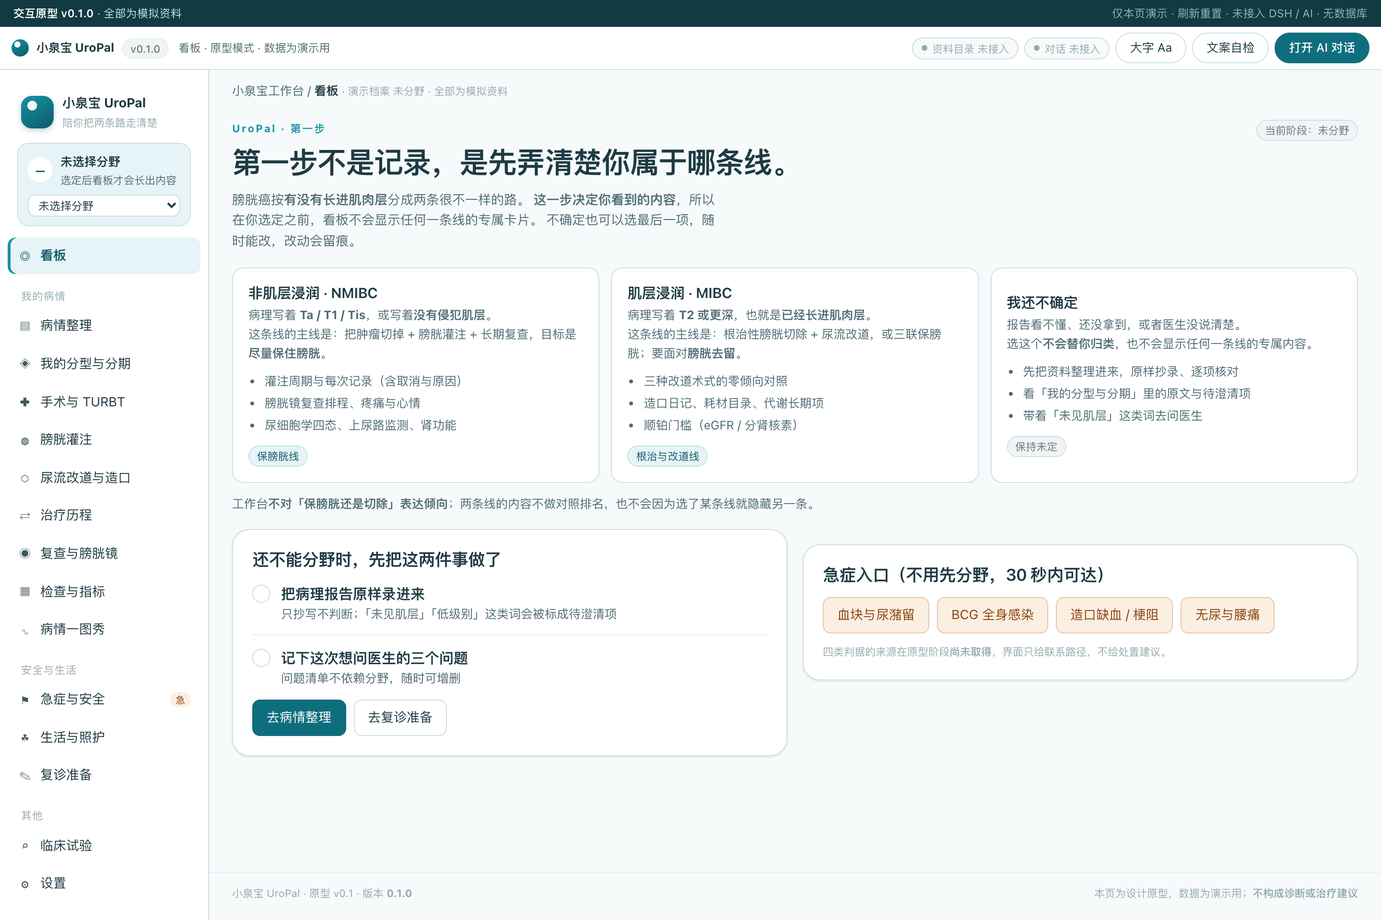
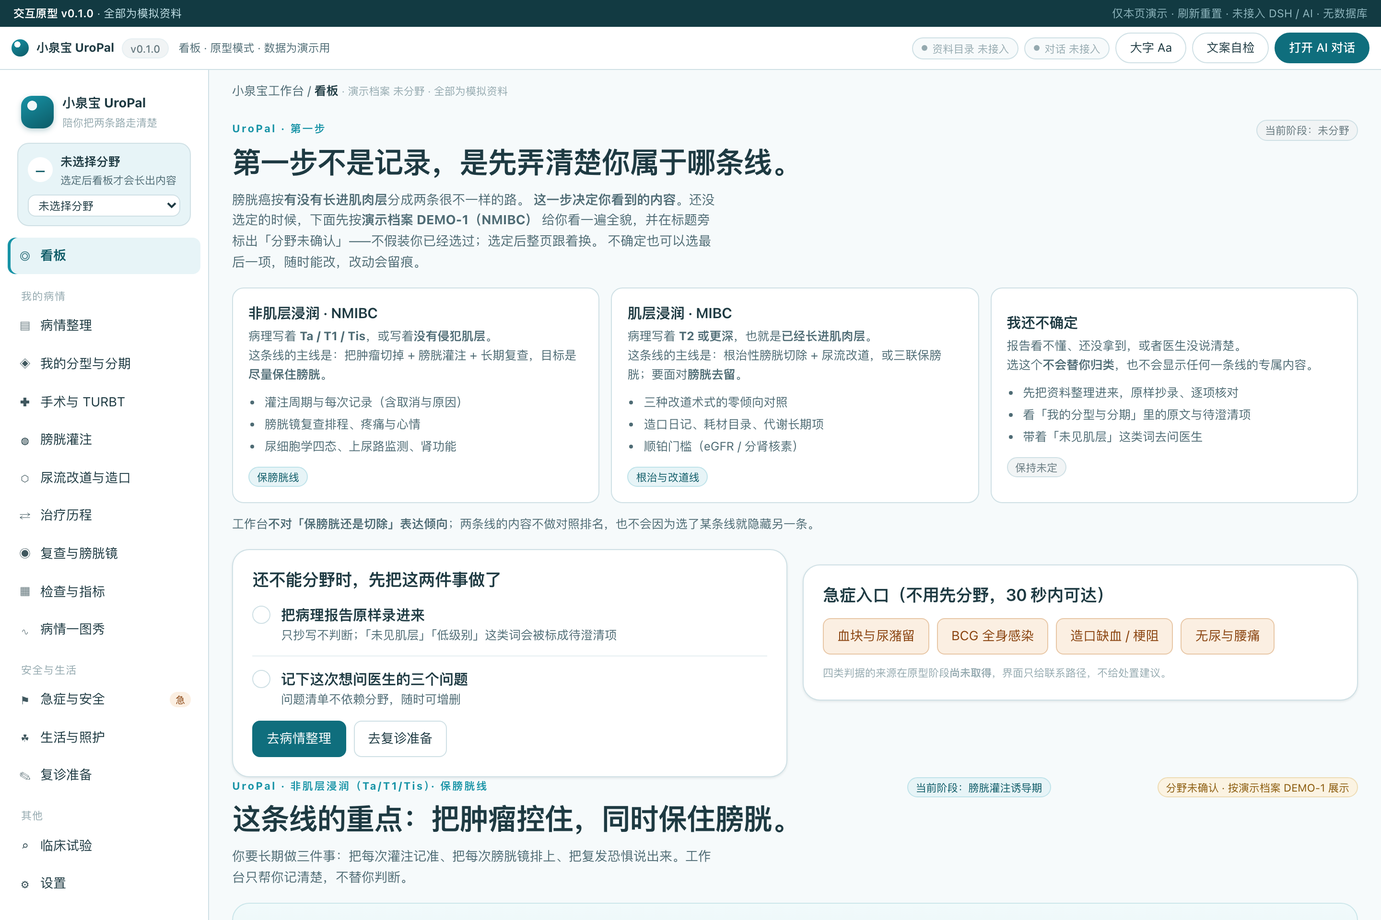
原型 v0.1：首页不再空着 + 指标页默认落卡片 + 真正实现 C11 可比组
用户反馈两条：
1) 「指标卡片没有实现 3d 反转效果」——复查发现翻转本身是好的，问题是默认页签
   落在「指标总览」裸表上，3D 卡藏在第二个页签后面，打开这页看不到。默认页签改为
   「分类指标卡」。
2) 「数据模拟不全，首页没有任何内容，这不真实」——原 DESIGN-08 实现成未选线时整页
   只有一张闸门卡。现闸门降级成第一张卡，下面按演示档案 DEMO-1 渲染全貌并明标
   「分野未确认」。

顺带：
- 指标序列 3-4 点扩到 6-8 点，跨 2025-06 → 2026-10，共 46 条记录 5 个分组
- 真正实现 docs/16 的 C11 可比组（此前只在注释里声明）：肌酐换医院（酶法→苦味酸法）
  后拆成 2 组，不跨组连线；卡片正面与图例都写明是哪几组、各几次
- 治疗事件泳道行距 13→17px：13px 小于 11px 标签行高(≈15.4px)，长窗口把三个事件挤到
  70px 内时相邻两行必然相交（此前窗口短、只用到两行，属于侥幸通过）
- 自检 124 → 130 条全通过

diff --git a/prototypes/v0.1/app.js b/prototypes/v0.1/app.js
@@ -238,10 +238,13 @@ function card(title, body, extra = '') {
 
 /* ================= 1. 看板 ================= */
 function pageDashboard() {
-  // 未分野 / 保持未定：都不显示任何一条线的专属卡片
-  if (!STATE.line || STATE.line === 'undetermined') return gateHTML();
+  /* 未分野时不再把整页让给闸门 —— 那样首页看着是空的，不像一个能用的产品。
+     改为：闸门降级成「第一张卡」，下面照常按演示档案 DEMO-1（NMIBC）渲染，
+     并在 hero 上明写「分野未确认」——不假装用户已经选过。 */
+  const confirmed = STATE.line === 'nmibc' || STATE.line === 'mibc';
+  const nmibc = STATE.line !== 'mibc';
+  const gateFirst = confirmed ? '' : gateHTML();
 
-  const nmibc = STATE.line === 'nmibc';
   const lineName = nmibc ? '非肌层浸润（Ta/T1/Tis）· 保膀胱线' : '肌层浸润（T2+）· 根治与改道线';
   const stage = nmibc ? '膀胱灌注诱导期' : '术后待定改道术式';
 
@@ -256,6 +259,7 @@ function pageDashboard() {
             : '你要面对两个不可逆的选择：膀胱切不切、改道走哪一种。这里把三种术式并排摆出来，不给倾向。'}</p>
         </div>
         <span class="chip chip-brand">当前阶段：${esc(stage)}</span>
+        ${confirmed ? '' : '<span class="chip chip-warn">分野未确认 · 按演示档案 DEMO-1 展示</span>'}
       </div>
     </div>`;
 
@@ -319,7 +323,7 @@ function pageDashboard() {
       <div class="legend" data-legend></div>
     </div>`;
 
-  return hero + strip
+  return gateFirst + hero + strip
     + `<div class="entry-grid">` + entries.map((e) => `
         <button type="button" class="entry-card" data-goto="${e.go}">
           <span class="entry-ico" aria-hidden="true">${e.ico}</span>
@@ -372,7 +376,8 @@ function gateHTML() {
         <div class="hero-eyebrow">UroPal · 第一步</div>
         <h1 class="hero-title">${undet ? '先保持未定。这一步不着急。' : '第一步不是记录，是先弄清楚你属于哪条线。'}</h1>
         <p class="hero-sub">膀胱癌按<b>有没有长进肌肉层</b>分成两条很不一样的路。
-          <b>这一步决定你看到的内容</b>，所以在你选定之前，看板不会显示任何一条线的专属卡片。
+          <b>这一步决定你看到的内容</b>。还没选定的时候，下面先按<b>演示档案 DEMO-1（NMIBC）</b>
+          给你看一遍全貌，并在标题旁标出「分野未确认」——不假装你已经选过；选定后整页跟着换。
           不确定也可以选最后一项，随时能改，改动会留痕。</p>
       </div>
       <span class="chip chip-neutral">当前阶段：${undet ? '分野未定' : '未分野'}</span>
@@ -790,7 +795,20 @@ function pageFollowup(tab) {
 function pageMetrics(tab) {
   let body;
   if (tab === '分类指标卡') {
-    body = `<div class="metric-grid" data-metric-grid>${METRICS.map((m, i) => metricCardHTML(m, i)).join('')}</div>
+    const cats = [...new Set(METRICS.map((m) => m.cat))];
+    const total = METRICS.reduce((a, m) => a + m.points.length, 0);
+    const lastD = METRICS.flatMap((m) => m.points.map((p) => p.d)).sort().pop();
+    const split = METRICS.filter((m) => CHART.groupsOf && CHART.groupsOf(m).length > 1);
+    body = `<div class="strip" style="margin-bottom:16px">
+        <div class="strip-main">
+          <div class="strip-head">${METRICS.length} 项指标 · ${cats.length} 个分组 · ${total} 条记录 · 最近更新 ${esc(lastD)}</div>
+          <div class="strip-note">分组顺序与「病情一图秀」同一来源，两页一致。
+            ${split.length ? `其中 <b>${split.map((m) => esc(m.name)).join('、')}</b> 的机构或方法中途变过，已拆成不同<b>可比组</b>，不跨组连线。`
+              : '全部指标机构与方法一致。'}</div>
+        </div>
+        <div class="strip-actions"><button type="button" class="btn" data-goto="chart">打开一图秀</button></div>
+      </div>
+      <div class="metric-grid" data-metric-grid>${METRICS.map((m, i) => metricCardHTML(m, i)).join('')}</div>
       <p class="src" style="margin-top:12px">卡背面是<b>固定高度 3D 翻转</b>，不是向下展开。
         点卡片或按回车/空格翻转；≥700px 两列，窄屏一列，不做三列以上。</p>`;
   } else if (tab === '电解质与 B12') {
@@ -811,7 +829,11 @@ function pageMetrics(tab) {
         <dt>顺铂门槛</dt><dd>${esc(RENAL.threshold.text)} ${src(RENAL.threshold.source)}</dd>
       </div>`);
   } else {
+    const cats2 = [...new Set(METRICS.map((m) => m.cat))];
     body = card('指标总览（与一图秀同源）', `
+      <div class="btn-row" style="margin-bottom:12px">
+        ${cats2.map((c) => `<span class="chip chip-cat">${esc(c)} · ${METRICS.filter((m) => m.cat === c).length} 项</span>`).join('')}
+      </div>
       <table class="tbl"><thead><tr><th>分组</th><th>指标</th><th class="num">最近值</th><th>单位</th><th>日期</th><th>分级</th></tr></thead><tbody>
         ${METRICS.map((m) => {
           const last = m.points[m.points.length - 1];
@@ -865,6 +887,15 @@ function rulerHTML(m) {
   </div>`;
 }
 
+/* 可比组：机构或方法变了就不该连成一条线。多于一组时明写出来，少一组就不啰嗦。 */
+function groupsHTML(m) {
+  if (!CHART.groupsOf) return '';
+  const gs = CHART.groupsOf(m);
+  if (gs.length < 2) return '';
+  return `<span class="mc-groups">可比组 ${gs.length} 个（不跨组连线）：`
+    + gs.map((g) => `${esc(g.label)} ${g.n} 次`).join(' / ') + `</span>`;
+}
+
 function metricCardHTML(m, i) {
   const last = m.points[m.points.length - 1];
   const prev = m.points[m.points.length - 2];
@@ -886,6 +917,7 @@ function metricCardHTML(m, i) {
         <div class="mc-meta">
           <span>共 ${m.points.length} 次记录 · 最近 ${esc(last.d)}</span>
           <span>来源：${esc(m.src)}${m.lab ? ' · ' + esc(m.lab) : ''}</span>
+          ${groupsHTML(m)}
           <span>${m.refLow != null && m.refHigh != null ? `参考范围 ${CHART.fmt(m.refLow)} ~ ${CHART.fmt(m.refHigh)} ${esc(m.unit)}`
             : m.refLow != null ? `参考范围 ≥ ${CHART.fmt(m.refLow)} ${esc(m.unit)}（报告未给上限）`
             : m.refHigh != null ? `参考范围 ≤ ${CHART.fmt(m.refHigh)} ${esc(m.unit)}（报告未给下限）`
@@ -898,7 +930,7 @@ function metricCardHTML(m, i) {
         <div class="mb-chart">${CHART.sparkline(m)}</div>
         <div class="mc-meta">
           <span>全期范围 ${CHART.fmt(m.min ?? Math.min(...m.points.map(p => p.v)))} ～ ${CHART.fmt(m.max ?? Math.max(...m.points.map(p => p.v)))} ${esc(m.unit)}</span>
-          <span>${m.lab ? `机构 ${esc(m.lab)}` : '自测'} · 方法 ${esc(m.method || '—')}</span>
+          <span>${groupsHTML(m) || (m.lab ? `机构 ${esc(m.lab)} · 方法 ${esc(m.method || '—')}` : '自测')}</span>
           ${m.ctcae ? `<span>${esc(m.ctcae.range || '')}｜来源：CTCAE v5.0</span>` : '<span>未启用分级对照</span>'}
         </div>
         <span class="mc-flip-hint">翻回正面 ⟳</span>

diff --git a/prototypes/v0.1/data.js b/prototypes/v0.1/data.js
@@ -17,7 +17,7 @@ const NAV = [
   { id: 'diversion',    text: '尿流改道与造口',  ico: '⬡', tabs: ['三术式对照', '回肠造口', '原位新膀胱', '输尿管皮肤造口', '造口日记', '耗材目录'] },
   { id: 'treatment',    text: '治疗历程',        ico: '⇄', tabs: ['治疗线', '用药与周期', '疗效评估', '肾功能门槛'] },
   { id: 'followup',     text: '复查与膀胱镜',    ico: '◉', tabs: ['复查排程', '本次记录', '方式与麻醉', '疼痛与心情', '尿细胞学', '上尿路监测'] },
-  { id: 'metrics',      text: '检查与指标',      ico: '▦', tabs: ['指标总览', '分类指标卡', '电解质与 B12', '肾功能'] },
+  { id: 'metrics',      text: '检查与指标',      ico: '▦', tabs: ['分类指标卡', '指标总览', '电解质与 B12', '肾功能'] },
   { id: 'chart',        text: '病情一图秀',      ico: '∿' },
   { id: 'urgent',       text: '急症与安全',      ico: '⚑' },
   { id: 'life',         text: '生活与照护',      ico: '☘', tabs: ['饮水与饮食', '造口与社交', '性功能与亲密', '工作与出行', '照护者交接'] },
@@ -122,12 +122,16 @@ const RENAL = {
 };
 
 /* ---------- 演示：指标（一图秀 + 3D 卡共用同一目录） ---------- */
+/* 指标序列。点级可带 lab/method —— 机构或方法一变就拆「可比组」，不跨组连线（C11）。
+   演示档案跨越 2025-06 → 2026-10；肌酐在 2026-10-08 换了医院（酶法 → 苦味酸法），
+   这两点与之前不同组，不能直接连成一条线。 */
 const METRICS = [
   {
     code: 'egfr', name: 'eGFR', cat: '肾功能', unit: 'mL/min/1.73m²', color: 'var(--d-renal)',
     points: [
-      { d: '2026-03-10', v: 92 }, { d: '2026-06-12', v: 88 },
-      { d: '2026-09-18', v: 74 }, { d: '2026-10-22', v: 66 },
+      { d: '2025-06-20', v: 95 }, { d: '2025-12-12', v: 93 }, { d: '2026-03-10', v: 92 },
+      { d: '2026-06-12', v: 88 }, { d: '2026-08-20', v: 84 }, { d: '2026-09-18', v: 74 },
+      { d: '2026-10-08', v: 70 }, { d: '2026-10-22', v: 66 },
     ],
     refLow: 90, refHigh: null, lab: '演示检验科', method: 'CKD-EPI', src: '演示数据',
     ctcae: null,
@@ -135,8 +139,9 @@ const METRICS = [
   {
     code: 'hb', name: '血红蛋白', cat: '血常规', unit: 'g/L', color: 'var(--d-blood)',
     points: [
-      { d: '2026-03-10', v: 138 }, { d: '2026-06-12', v: 131 },
-      { d: '2026-09-18', v: 118 }, { d: '2026-10-22', v: 124 },
+      { d: '2025-06-20', v: 148 }, { d: '2025-12-12', v: 145 }, { d: '2026-03-10', v: 138 },
+      { d: '2026-06-12', v: 131 }, { d: '2026-08-20', v: 126 }, { d: '2026-09-18', v: 118 },
+      { d: '2026-10-08', v: 121 }, { d: '2026-10-22', v: 124 },
     ],
     refLow: 130, refHigh: 175, lab: '演示检验科', method: '血细胞分析', src: '演示数据',
     ctcae: { grade: 1, text: '对照 CTCAE v5.0 · 1 级', range: 'Hb 100–129 g/L（贫血 1 级，通用下限）' },
@@ -144,7 +149,8 @@ const METRICS = [
   {
     code: 'anc', name: '中性粒细胞绝对值', cat: '血常规', unit: '10⁹/L', color: 'var(--d-blood)',
     points: [
-      { d: '2026-09-18', v: 3.1 }, { d: '2026-10-22', v: 2.4 },
+      { d: '2025-12-12', v: 3.6 }, { d: '2026-03-10', v: 3.4 }, { d: '2026-08-20', v: 3.3 },
+      { d: '2026-09-18', v: 3.1 }, { d: '2026-10-08', v: 2.7 }, { d: '2026-10-22', v: 2.4 },
     ],
     refLow: 1.8, refHigh: 6.3, lab: '演示检验科', method: '血细胞分析', src: '演示数据',
     ctcae: null,
@@ -152,7 +158,10 @@ const METRICS = [
   {
     code: 'cr', name: '肌酐', cat: '肾功能', unit: 'μmol/L', color: 'var(--d-renal)',
     points: [
-      { d: '2026-06-12', v: 82 }, { d: '2026-09-18', v: 96 }, { d: '2026-10-22', v: 105 },
+      { d: '2025-06-20', v: 78 }, { d: '2025-12-12', v: 79 }, { d: '2026-06-12', v: 82 },
+      { d: '2026-08-20', v: 88 }, { d: '2026-09-18', v: 96 },
+      { d: '2026-10-08', v: 101, lab: '演示社区医院', method: '苦味酸法' },
+      { d: '2026-10-22', v: 105, lab: '演示社区医院', method: '苦味酸法' },
     ],
     refLow: 41, refHigh: 111, lab: '演示检验科', method: '酶法', src: '演示数据',
     ctcae: null,
@@ -160,7 +169,8 @@ const METRICS = [
   {
     code: 'alt', name: 'ALT', cat: '肝功能', unit: 'U/L', color: 'var(--d-lyte)',
     points: [
-      { d: '2026-09-18', v: 22 }, { d: '2026-10-22', v: 31 },
+      { d: '2026-03-10', v: 19 }, { d: '2026-06-12', v: 21 }, { d: '2026-08-20', v: 24 },
+      { d: '2026-09-18', v: 22 }, { d: '2026-10-08', v: 27 }, { d: '2026-10-22', v: 31 },
     ],
     refLow: 7, refHigh: 40, lab: '演示检验科', method: '速率法', src: '演示数据',
     ctcae: null,
@@ -168,8 +178,8 @@ const METRICS = [
   {
     code: 'weight', name: '体重', cat: '营养', unit: 'kg', color: 'var(--d-nutrition)',
     points: [
-      { d: '2026-06-12', v: 71.5 }, { d: '2026-07-15', v: 70.8 },
-      { d: '2026-09-18', v: 69.4 }, { d: '2026-10-22', v: 69.0 },
+      { d: '2026-06-12', v: 71.5 }, { d: '2026-07-15', v: 70.8 }, { d: '2026-08-20', v: 70.1 },
+      { d: '2026-09-18', v: 69.4 }, { d: '2026-10-08', v: 69.2 }, { d: '2026-10-22', v: 69.0 },
     ],
     refLow: null, refHigh: null, lab: null, method: '家用体重秤', src: '自测',
     ctcae: null,
@@ -177,7 +187,8 @@ const METRICS = [
   {
     code: 'pain', name: '疼痛自评', cat: '症状自评', unit: '分（0–10）', color: 'var(--d-symptom)',
     points: [
-      { d: '2026-09-19', v: 6 }, { d: '2026-09-26', v: 3 }, { d: '2026-10-22', v: 2 },
+      { d: '2026-09-19', v: 6 }, { d: '2026-09-26', v: 3 }, { d: '2026-10-05', v: 2 },
+      { d: '2026-10-15', v: 3 }, { d: '2026-10-22', v: 2 },
     ],
     refLow: null, refHigh: null, lab: null, method: '本人自评', src: '自述',
     ctcae: null,

diff --git a/prototypes/v0.1/charts.js b/prototypes/v0.1/charts.js
@@ -73,6 +73,27 @@ const CHART = (() => {
   }
 
   const fmt = (v) => (Math.round(v * 10) / 10).toString();
+  const esc = (v) => String(v == null ? '' : v)
+    .replace(/[&<>"]/g, (c) => ({ '&': '&amp;', '<': '&lt;', '>': '&gt;', '"': '&quot;' }[c]));
+
+  /* C11：机构或方法一变就拆「可比组」。
+     数值随机构/方法漂移是真实的（酶法与苦味酸法测同一份血可以差一截），
+     把两组连成一条线等于凭空造出一段趋势。点级 lab/method 优先，回退到指标级。 */
+  const labOf = (m, pt) => (pt && pt.lab) || m.lab || '自测';
+  const methodOf = (m, pt) => (pt && pt.method) || m.method || '—';
+  const groupKey = (m, pt) => `${labOf(m, pt)}|${methodOf(m, pt)}`;
+  /** 供卡片与图例复用：全部记录按可比组归并，返回 [{key,label,lab,method,n}] */
+  const groupsOf = (m) => {
+    const out = [];
+    m.points.forEach((pt) => {
+      const key = groupKey(m, pt);
+      const hit = out.find((g) => g.key === key);
+      if (hit) hit.n++;
+      else out.push({ key, lab: labOf(m, pt), method: methodOf(m, pt),
+                      label: `${labOf(m, pt)} · ${methodOf(m, pt)}`, n: 1 });
+    });
+    return out;
+  };
 
   /** 主渲染：返回 { treatLane, svg, legend, empty, reason } */
   function render(codes, win, width) {
@@ -107,19 +128,28 @@ const CHART = (() => {
       const ys = Y(s);
       const coords = s.pts.map((p) => [X(p.d), ys(p.v)]);
 
-      // C2：单点不连线
-      if (coords.length > 1) {
-        const d = coords.map(([x, y], i) => `${i ? 'L' : 'M'}${x.toFixed(1)} ${y.toFixed(1)}`).join(' ');
+      // C11 + C2：拆可比组；一组里只有一个点就不连线（只画点）
+      const runs = [];
+      s.pts.forEach((pt, i) => {
+        const k = groupKey(s, pt);
+        const tail = runs[runs.length - 1];
+        if (tail && tail.k === k) tail.idx.push(i);
+        else runs.push({ k, idx: [i] });
+      });
+      runs.forEach((run) => {
+        if (run.idx.length < 2) return;
+        const d = run.idx
+          .map((i, n) => `${n ? 'L' : 'M'}${coords[i][0].toFixed(1)} ${coords[i][1].toFixed(1)}`).join(' ');
         parts.push(
           `<path class="series-line" d="${d}" stroke="${s.color}" pathLength="1" `
           + `style="stroke-dasharray:1;stroke-dashoffset:1;animation:dash .7s ease forwards;animation-delay:${animDelay}ms"/>`
         );
         animDelay += 45;                                  // C9：40–50ms 递增
-      }
+      });
       coords.forEach(([x, y], i) => {
         parts.push(
           `<circle class="series-dot" cx="${x.toFixed(1)}" cy="${y.toFixed(1)}" r="3.4" fill="${s.color}">`
-          + `<title>${s.name} ${s.pts[i].d}：${fmt(s.pts[i].v)} ${s.unit}｜${s.lab || '自测'} · ${s.method || '—'}｜${s.src}</title>`
+          + `<title>${esc(s.name)} ${esc(s.pts[i].d)}：${fmt(s.pts[i].v)} ${esc(s.unit)}｜${esc(labOf(s, s.pts[i]))} · ${esc(methodOf(s, s.pts[i]))}｜${esc(s.src)}</title>`
           + `</circle>`
         );
       });
@@ -144,6 +174,9 @@ const CHART = (() => {
     const marks = TREATMENTS
       .filter((t) => day(t.d) >= from && day(t.d) <= to)
       .map((t) => ({ ...t, x: PAD.l + ((day(t.d) - from) / span) * INNER_W }));
+    /* 行距必须大于标签行高：11px 字号 line-height 1.4 ≈ 15.4px，
+       用 13px 时相邻两行在垂直方向必然相交（长窗口把三个事件挤到 70px 内就暴露了）。 */
+    const ROW_PITCH = 17;
     const rowRight = [];
     const rows = marks.map((m) => {
       let r = 0;
@@ -153,21 +186,26 @@ const CHART = (() => {
     });
     const maxRow = rows.reduce((a, b) => Math.max(a, b), 0);
     const treatLane = marks.map((m, i) =>
-      `<div class="treat-mark" style="left:${(m.x / W * 100).toFixed(3)}%;top:${4 + rows[i] * 13}px" data-ev="${m.id}">`
+      `<div class="treat-mark" style="left:${(m.x / W * 100).toFixed(3)}%;top:${4 + rows[i] * ROW_PITCH}px" data-ev="${m.id}">`
       + `<div class="tm-diamond" aria-hidden="true"></div>`
       + `<div class="tm-label">${m.label}</div>`
       + `<div class="tm-stem" aria-hidden="true"></div></div>`
     ).join('');
-    const laneH = 30 + maxRow * 13;
+    const laneH = 30 + maxRow * ROW_PITCH;
 
     // 轴：首末日期
     parts.push(`<text class="axis-label" x="${PAD.l}" y="${H - 6}">${iso(from)}</text>`);
     parts.push(`<text class="axis-label" x="${PAD.l + INNER_W}" y="${H - 6}" text-anchor="end">${iso(to)}</text>`);
 
-    const legend = withData.map((s) =>
-      `<span class="legend-item"><span class="legend-swatch" style="background:${s.color}"></span>`
-      + `${s.name}（${fmt(s.min)}–${fmt(s.max)} ${s.unit}）</span>`
-    ).join('');
+    const legend = withData.map((s) => {
+      const gs = groupsOf(s);
+      const gnote = gs.length > 1
+        ? `<span class="legend-group">${gs.length} 个可比组，不跨组连线：`
+          + gs.map((g) => `${esc(g.label)}（${g.n} 次）`).join(' / ') + `</span>`
+        : '';
+      return `<span class="legend-item"><span class="legend-swatch" style="background:${s.color}"></span>`
+        + `${esc(s.name)}（${fmt(s.min)}–${fmt(s.max)} ${esc(s.unit)}）</span>${gnote}`;
+    }).join('');
 
     return {
       empty: false,
@@ -197,5 +235,5 @@ const CHART = (() => {
     return `<svg viewBox="0 0 ${w} ${h}" preserveAspectRatio="none" aria-hidden="true">${line}${dots}</svg>`;
   }
 
-  return { render, sparkline, fmt, TREATMENTS };
+  return { render, sparkline, fmt, groupsOf, TREATMENTS };
 })();

diff --git a/prototypes/v0.1/shell.css b/prototypes/v0.1/shell.css
@@ -716,6 +716,11 @@ table.tbl td.num { text-align: right; }
 .legend-item { display: inline-flex; align-items: center; gap: 6px; font-size: var(--fs-sm); color: var(--wb-muted); }
 .legend-swatch { width: 10px; height: 10px; border-radius: 3px; flex: 0 0 auto; }
 
+/* 可比组（C11）：机构或方法中途变了就不连线，界面要能说清是哪几组。
+   中性灰、不做好坏着色 —— 「换了医院」不是病情变化。 */
+.mc-groups { color: var(--wb-ghost); }
+.legend-group { flex: 1 1 100%; font-size: var(--fs-xs); color: var(--wb-ghost); line-height: 1.5; }
+
 /* ============================================================
    窄屏覆盖 —— 必须保留在文件末尾
    坑（勿改回）：这些覆盖与上面的基础规则同优先级，若放在文件中段，

diff --git a/docs/DESIGN-SESSION.md b/docs/DESIGN-SESSION.md
@@ -6,6 +6,10 @@
 设计提示词：`docs/DESIGN-PROMPT.md`；癌种提示词：`prompts/NEW-CANCER-WORKBENCH.md`；Agent 面板合同：`prompts/DSH-AGENT-PANE-INTEGRATION.md`；设计者章程：`docs/DESIGNER-BRIEF.md`；独立审查：`docs/DESIGN-REVIEW.md`。
 权威内容：`docs/BRIEF.md`、`docs/SPEC.md`（待写）。
 
+| DESIGN-13 | **首页不再让闸门独占整页**（推翻 DESIGN-08 的一半） | 用户 2026-10-23 反馈原话：「数据模拟不全，首页没有任何内容，这不真实。」 | 原 DESIGN-08 是「先问一次分野，再进看板」，实现成「未选线时整页只有一张闸门卡」——首屏看着是空的，不像能用的产品。现改为：闸门**降级成第一张卡**，下面照常按演示档案 DEMO-1（NMIBC）渲染全貌，并在 hero 上明标「分野未确认 · 按演示档案 DEMO-1 展示」，不假装用户已选过。分野仍是第一件事，但不再阻塞首页内容。 | 待用户复看确认 |
+| DESIGN-14 | **指标页默认落在「分类指标卡」** | 用户 2026-10-23 反馈原话：「指标卡片没有实现，3d反转效果，看脚手架 或者 乳腺癌工作台。」 | 复查发现 3D 翻转**本来就是实现好的**（perspective/preserve-3d/backface-visibility/rotateY 都在，实测转场中途是真透视梯形）。真正的问题是默认页签落在「指标总览」一张裸表上，卡片藏在第二个页签后面，打开这页根本看不到。已把默认页签改为「分类指标卡」。 | 待用户复看确认 |
+| DESIGN-15 | **演示数据加厚到 46 条 / 跨 16 个月**，并放入一次真实的「换医院换方法」 | 同上「数据模拟不全」 | 指标序列由 3–4 点扩到 6–8 点，时间跨 2025-06 → 2026-10；肌酐在 2026-10-08 换医院（酶法 → 苦味酸法），据此真正实现 docs/16 的 **C11 可比组**（原先只在注释里声明、代码没做）：机构或方法一变就断开折线，卡片正面写清「可比组 2 个（不跨组连线）：演示检验科 · 酶法 5 次 / 演示社区医院 · 苦味酸法 2 次」。 | 待用户复看确认 |
+
 ## 已确认决策
 
 | 决策 ID | 待解决的问题 | 用户已确认内容/来源 | Agent 建议及原因 | 待确认项 | 确认人/日期 | 影响功能 ID |

diff --git a/docs/DEMO-INDEX.md b/docs/DEMO-INDEX.md
@@ -26,10 +26,10 @@ cd /Users/qinxiaoqiang/Downloads/bladder-workbench/prototypes/v0.1 && python3 -m
 |---|---|---|
 | `index.html` | 外壳：顶栏三段式 + 左侧导航 + 业务主区 + Agent 抽屉 | `cbcd779f4ae644bc` |
 | `tokens.css` | 语义 token：品牌色、数据色、字号三档、间距、圆角 | `8b36dfac64f14e41` |
-| `shell.css` | 布局与组件：顶栏、导航、卡片、表格、弹窗、Agent 面板、窄屏覆盖 | `b5f384790bdb6c3b` |
-| `data.js` | 演示数据（**全部为演示用假数据，不含任何真实病历**）+ 指标目录 + 2026 试验真实样本 | `c8522338e8b4389a` |
-| `charts.js` | 一图秀渲染（C1–C12）与折线动画；按容器**实测宽度 1:1** 渲染 | `10c47294c4a5c9e7` |
-| `app.js` | 15 个一级页 + 二级页签、状态持久化、分级与提醒、草稿生成 | `9b5356017b0ada5e` |
+| `shell.css` | 布局与组件：顶栏、导航、卡片、表格、弹窗、Agent 面板、窄屏覆盖 | `f5e3f2222a3ebe3a` |
+| `data.js` | 演示数据（**全部为演示用假数据，不含任何真实病历**）+ 指标目录 + 2026 试验真实样本 | `fe082476e411b14c` |
+| `charts.js` | 一图秀渲染（C1–C12）与折线动画；按容器**实测宽度 1:1** 渲染 | `0d731671189606a8` |
+| `app.js` | 15 个一级页 + 二级页签、状态持久化、分级与提醒、草稿生成 | `7a2a295a5e9dc922` |
 
 **版本号**：`v0.1.0`（顶上角版本 chip 与页脚两处同源，均由 `app.js` 的 `APP_VERSION` 注入）。
 

diff --git a/docs/PROTOTYPE-REVIEW.md b/docs/PROTOTYPE-REVIEW.md
@@ -16,12 +16,12 @@
 |---|---|
[10 lines of base64/hex data omitted]
 
[2 lines of base64/hex data omitted]
 
 **当前 SPEC / 场景 / 数据模型版本**：`docs/SPEC.md`（含 M01–M14）、`docs/SCENARIOS.md`（S01–S16）、`docs/SCHEMA.md`（**草案，未冻结**）
 

diff --git a/docs/TASKS.md b/docs/TASKS.md
@@ -36,7 +36,7 @@
 
 ## 当前失败/复现
 
-无。`node scripts/verify-prototype.mjs` → 124 条断言全部通过，浏览器控制台零 error。
+无。`node scripts/verify-prototype.mjs` → 130 条断言全部通过，浏览器控制台零 error。
 
 ## 未验证项（不得写成「已支持」）
 
